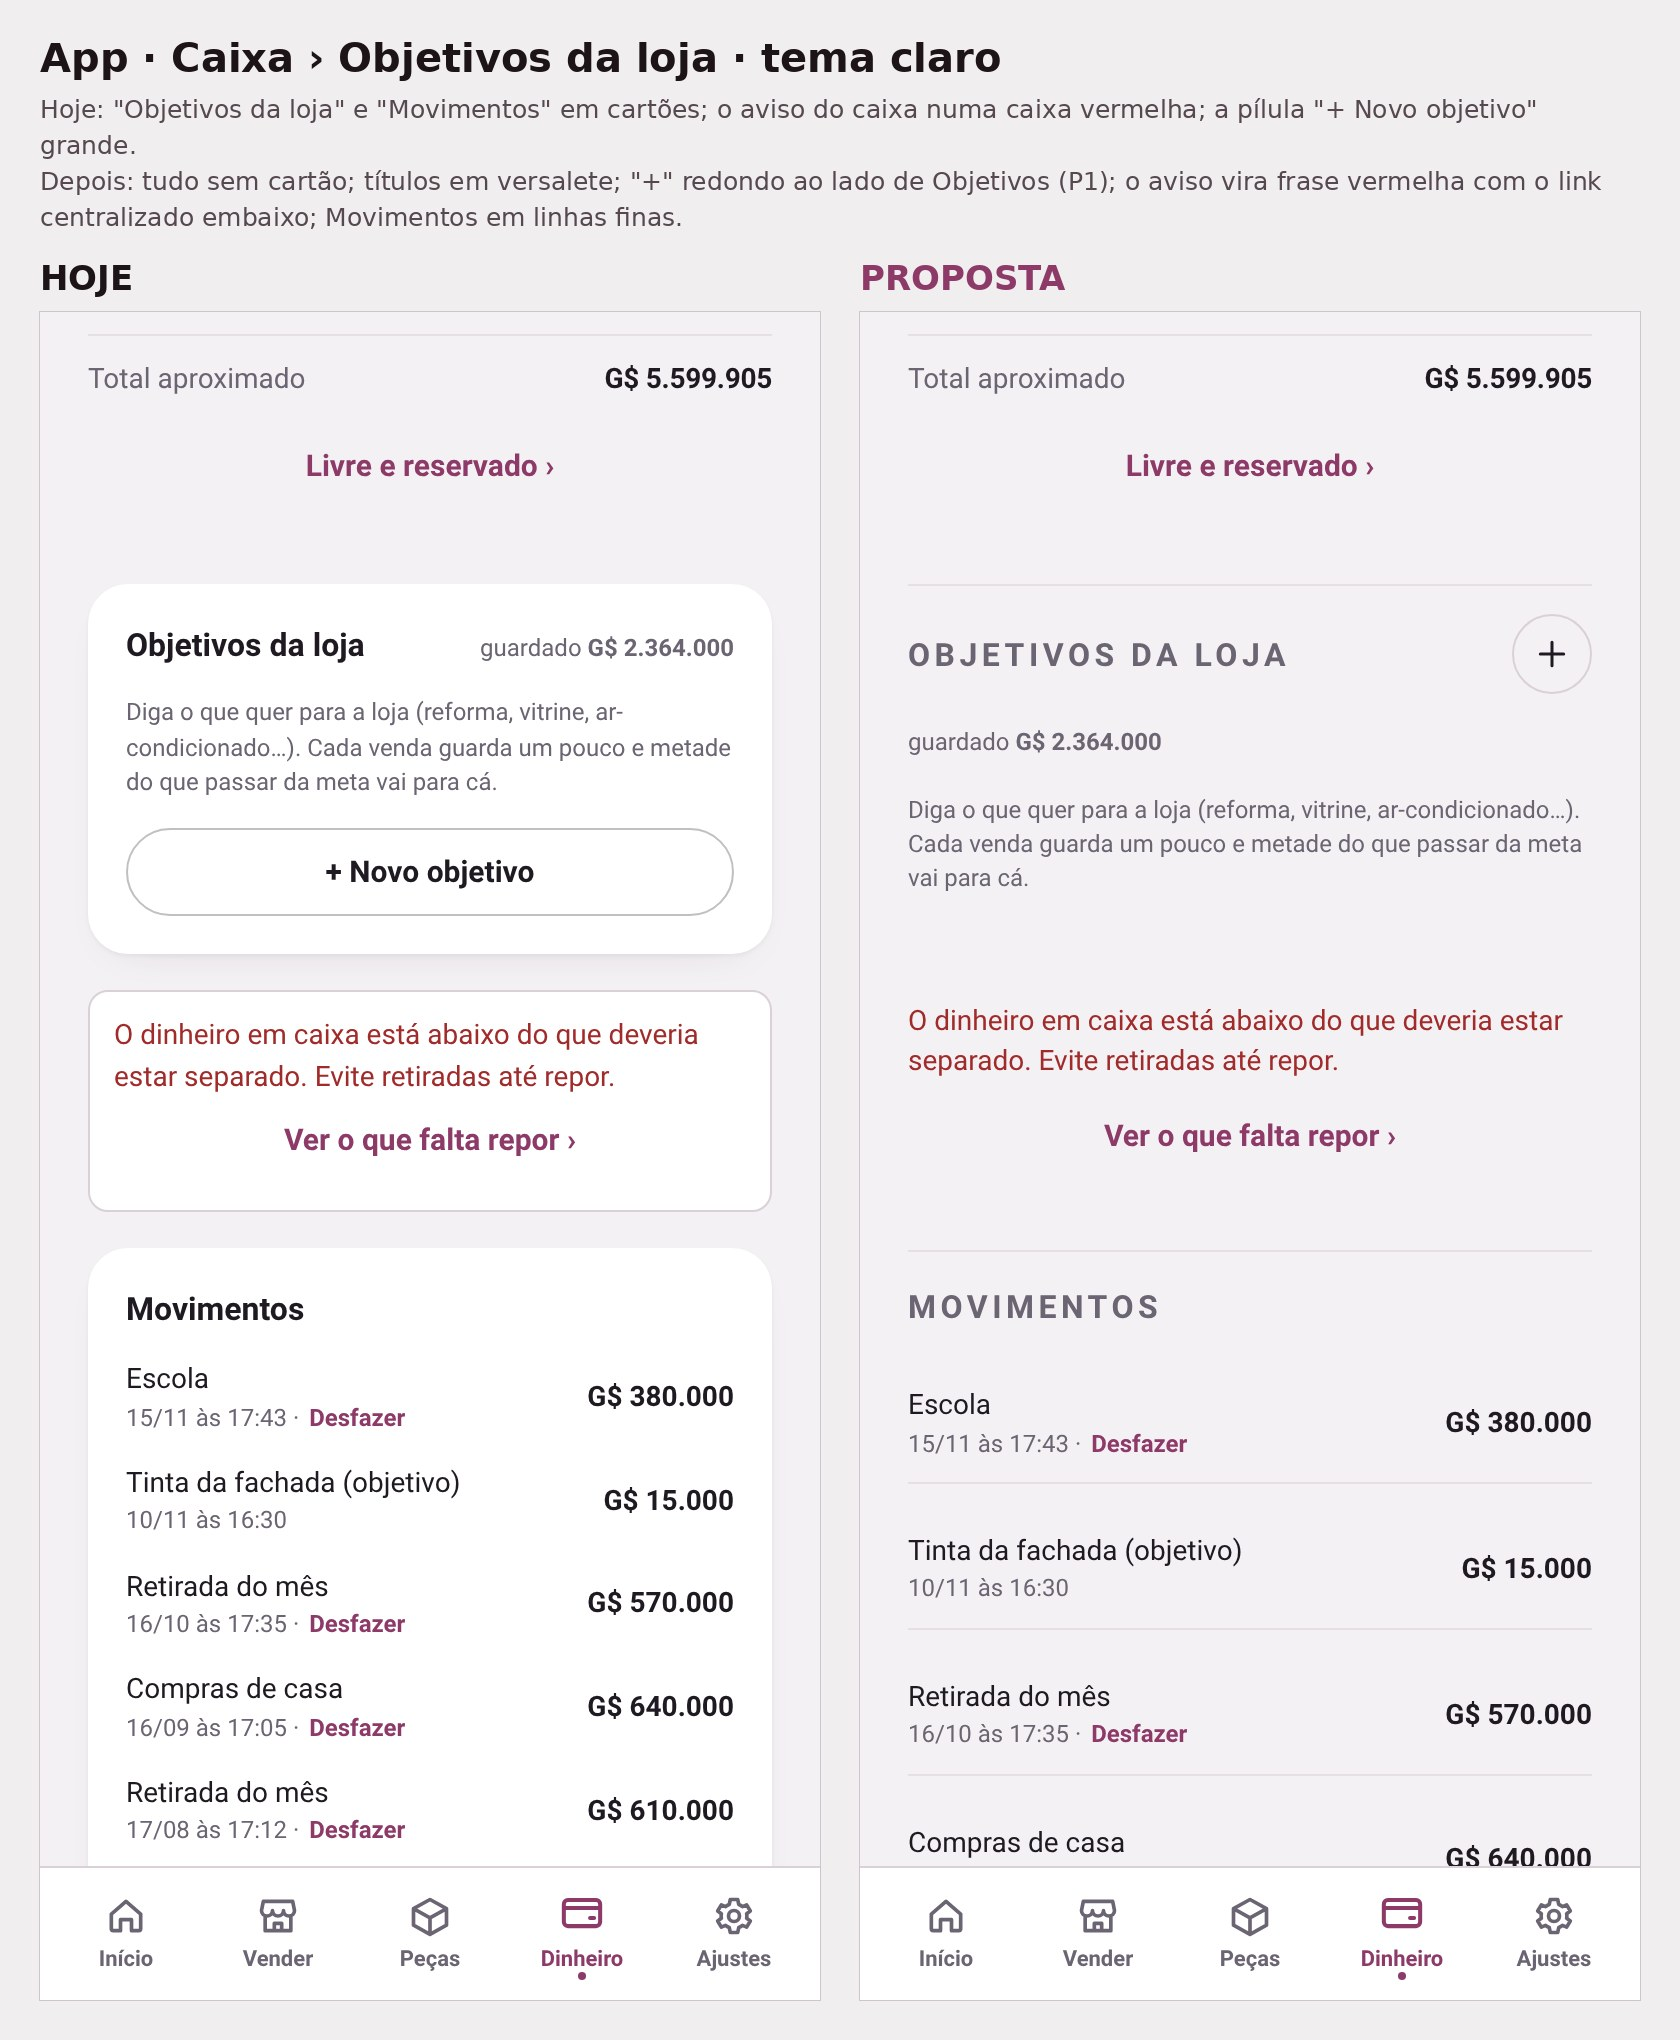
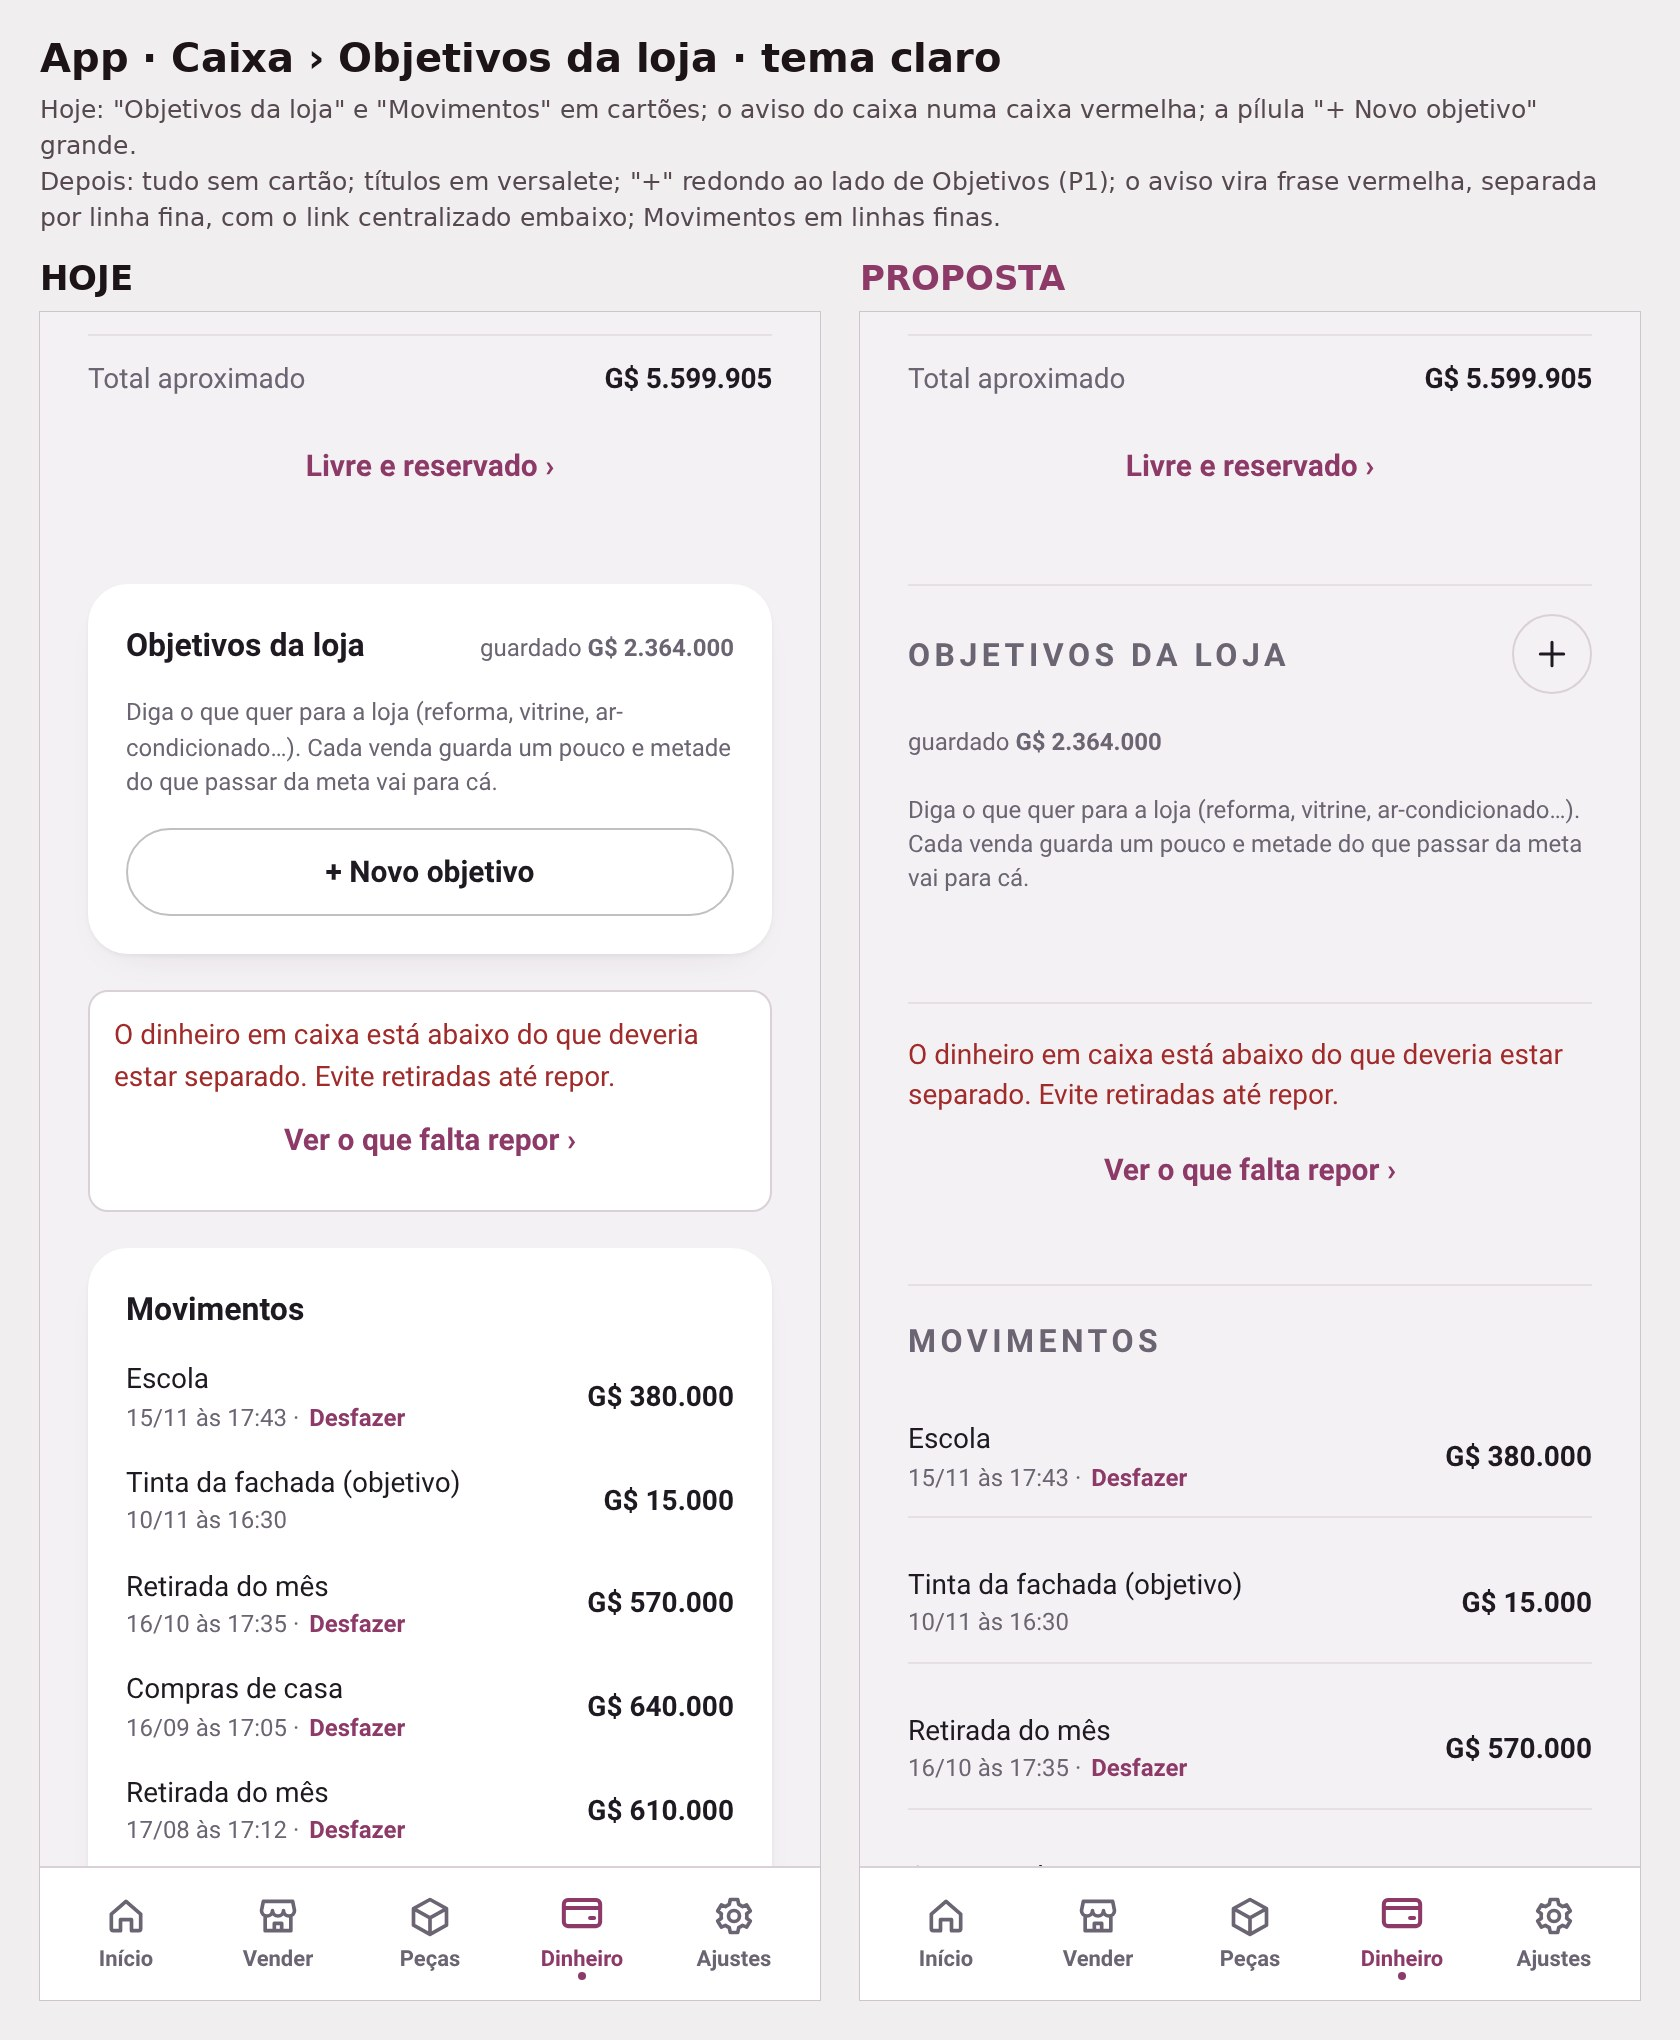
S425: 135b divisão e 135i Câmbio
Claude-Session: https://claude.ai/code/session_01Vj5GPRt4UBskC3w8v52h7G

diff --git a/work/s425/esb135.py b/work/s425/esb135.py
@@ -21,9 +21,9 @@ CASOS=[
   'Depois: "+" redondo (igual a Inventário e Clientes) no centro da linha do título (P1 + regra 2); as contas da loja em linhas finas, sem cartão.'),
  ('b','caixa-objetivos','Caixa › Objetivos da loja',D['caixa-movimentos']+["()=>scrollTo(0,420)"],
   '.view section.obCard{'+SEMCX+';border-top:1px solid var(--line2)!important;padding-top:14px!important}.obCard .paMt h2{font-size:11px!important;letter-spacing:.14em!important;text-transform:uppercase;color:var(--mute)!important;font-weight:600!important;font-family:inherit!important;white-space:nowrap;margin-right:auto!important}.obCard>.hint{margin:2px 0 0!important}html body section.card:has(.note.n-bad),html body .phgrid:has(.note.n-bad),html body .phgrid .col:has(.note.n-bad){'+SEMCX+'}html body div.note.n-bad{background:none!important;border:0!important;border-radius:0!important;box-shadow:none!important;padding:16px 0 0!important;color:var(--bad)!important;text-align:left}html body div.note.n-bad .esLn{display:block!important;margin:6px auto 0!important;text-align:center}.view section.card.col:has(>h2):not(.obCard){'+SEMCX+';border-top:1px solid var(--line2)!important;padding-top:16px!important;margin-top:16px!important}.view section.card.col:has(>h2):not(.obCard)>h2{font-size:11px!important;letter-spacing:.14em!important;text-transform:uppercase;color:var(--mute)!important;font-weight:600!important;font-family:inherit!important;margin-bottom:4px!important}.view section.card.col:has(>h2):not(.obCard) .sl{border-bottom:1px solid var(--line2);padding:10px 0!important;margin:0!important;min-height:44px;align-items:center}',
-  ["""()=>{const c=document.querySelector('.obCard');if(!c)return;const b=[...c.querySelectorAll('button')].find(x=>/Novo objetivo/.test(x.textContent));const h=c.querySelector('.paMt');if(b&&h){b.className='pl78';b.style.cssText='margin:0 0 0 12px;width:40px;height:40px';b.setAttribute('aria-label','Novo objetivo');b.innerHTML='%s';h.style.cssText+=';display:flex;align-items:center;gap:8px';const g=h.querySelector('.hint');if(g)h.after(g);h.appendChild(b)};document.querySelectorAll('.view>.note.n-bad').forEach(n=>{[['background','none'],['border','0'],['border-radius','0'],['box-shadow','none'],['padding','16px 0 0'],['margin','0']].forEach(q=>n.style.setProperty(q[0],q[1],'important'))})}"""%MAIS,CAB],
+  ["""()=>{const c=document.querySelector('.obCard');if(!c)return;const b=[...c.querySelectorAll('button')].find(x=>/Novo objetivo/.test(x.textContent));const h=c.querySelector('.paMt');if(b&&h){b.className='pl78';b.style.cssText='margin:0 0 0 12px;width:40px;height:40px';b.setAttribute('aria-label','Novo objetivo');b.innerHTML='%s';h.style.cssText+=';display:flex;align-items:center;gap:8px';const g=h.querySelector('.hint');if(g)h.after(g);h.appendChild(b)};document.querySelectorAll('.view>.note.n-bad').forEach(n=>{[['background','none'],['border','0'],['border-radius','0'],['box-shadow','none'],['padding','16px 0 0'],['margin','16px 0 0'],['border-top','1px solid var(--line2)']].forEach(q=>n.style.setProperty(q[0],q[1],'important'))})}"""%MAIS,CAB],
   'Hoje: "Objetivos da loja" e "Movimentos" em cartões; o aviso do caixa numa caixa vermelha; a pílula "+ Novo objetivo" grande.',
-  'Depois: tudo sem cartão; títulos em versalete; "+" redondo ao lado de Objetivos (P1); o aviso vira frase vermelha com o link centralizado embaixo; Movimentos em linhas finas.'),
+  'Depois: tudo sem cartão; títulos em versalete; "+" redondo ao lado de Objetivos (P1); o aviso vira frase vermelha, separada por linha fina, com o link centralizado embaixo; Movimentos em linhas finas.'),
  ('c','atacado','Atacado › Lojistas',["()=>__LF.inicioGo('ata')","()=>__LF.ACT.ataAba('loj')"],
   '#ataTabs{margin-bottom:0!important}#ataCorpo{padding-top:32px!important;margin-top:0!important}#ataCorpo .ataVz{text-align:center!important;font-weight:700;color:var(--fg)!important;padding:0!important;margin:8px 0 0!important}#ataCorpo .ataNt{text-align:center!important;margin:6px 24px 0!important;color:var(--sub)!important}',
   [plus("button[data-act=ataNovo]","Novo acesso"),CAB,"""()=>{const c=document.getElementById('ataCorpo');if(!c||c.querySelector('[data-ic]'))return;c.insertAdjacentHTML('afterbegin','<div data-ic style="display:flex;justify-content:center;color:var(--accent-fg)"><svg width="56" height="56" viewBox="0 0 24 24" fill="none" stroke="currentColor" stroke-width="1.4" stroke-linecap="round"><circle cx="12" cy="8" r="4"/><path d="M4 21c1.5-4 4.5-6 8-6s6.5 2 8 6"/></svg></div>');const v=c.querySelector('.ataVz');if(v)v.textContent='Nenhum lojista ainda'}"""],
@@ -50,9 +50,13 @@ CASOS=[
   ["""()=>{document.querySelectorAll('.view b').forEach(b=>{b.textContent=b.textContent.replace(/\\b1 dias\\b/,'1 dia')});document.querySelectorAll('.view *').forEach(e=>{const f=getComputedStyle(e).fontFamily;if(/Fraunces|Georgia/.test(f)&&!e.matches('h1,h1 *,.ttl,.ttl *')&&e.getBoundingClientRect().top>200)e.style.setProperty('font-family','Roboto, system-ui, sans-serif','important')})}"""],
   'Hoje: números do resumo na letra de título (serifada); "Black Friday em 1 dias".',
   'Depois: números na letra do texto, como no Dashboard (T); "Black Friday em 1 dia" (W).'),
+ ('i','cambio','Câmbio',["()=>__LF.setView('fx')"],'',
+  ["""()=>{const h=document.querySelector('#v-fx h1');if(!h||document.querySelector('[data-b135i]'))return;const row=h.closest('.top,.grpTop,[class*=Top]')||h.parentElement;row.style.cssText+=';display:flex;align-items:center;justify-content:space-between';row.insertAdjacentHTML('beforeend','<button type="button" class="pl78" data-b135i aria-label="Registrar troca" style="margin:0">%s</button>')}"""%MAIS,CAB],
+  'Hoje: o título "Câmbio" sem ação; para trocar é preciso descer até "Registrar troca".',
+  'Depois: "+" redondo ao lado do título abre "Registrar troca" (P1, igual a Despesas, Inventário e Clientes). O botão "Registrar troca" embaixo da Reposição continua (é o principal daquela sugestão).'),
 ]
 with sync_playwright() as pw:
-  for k,nome,tit,ps,css,js,h,p in [c for c in CASOS if c[0] in (os.environ.get('SO') or 'abcdefgh')]:
+  for k,nome,tit,ps,css,js,h,p in [c for c in CASOS if c[0] in (os.environ.get('SO') or 'abcdefghi')]:
     for esc,tema in ((True,'escuro'),(False,'claro')):
       fs=[];oo=[];aa=[]
       for prop in (0,1):

diff --git a/work/s425/i7.py b/work/s425/i7.py
@@ -1,0 +1,6 @@
+import sys;sys.path.insert(0,'/home/claude/lafouch/work/s349');import ap
+from playwright.sync_api import sync_playwright
+with sync_playwright() as pw:
+  b,pg,w=ap.abre(pw,'fx',True);w(1200)
+  print(pg.evaluate("()=>[...document.querySelectorAll('#v-fx button,#v-fx [data-act]')].filter(x=>x.getBoundingClientRect().height).map(x=>(x.dataset.act||'')+':'+(x.innerText||x.getAttribute('aria-label')||'').trim().slice(0,30)+'@'+Math.round(x.getBoundingClientRect().top))"))
+  pg.screenshot(path='/tmp/s425/fx.png',full_page=True);b.close()

diff --git a/docs/FALTA-APROVAR-15-11.md b/docs/FALTA-APROVAR-15-11.md
@@ -618,3 +618,4 @@ Não são esquecimento (estavam na lista, parados de propósito ou por ordem do 
 - 18/11 ~14:15 · DONO "Implementar" (travadas) → ✔ PUBLICADO site 1795021758 (S426; www/loja atualizado): os 5 itens. Simulador: estilo idêntico (60 telas), porteiro 197/0, catálogo 1.235→957 ms de quadros longos (processador 4× lento). A Mochi com o leitor ao lado só dá para medir no celular de verdade (no simulador ela usa o leitor de teste) → falta nova gravação do dono.
 - 18/11 14:40 — ESBOÇOS RÁPIDOS 135a–135h (work/s425/esb135.py, claro e escuro), ESPERANDO: a Despesas ("+" redondo no centro do título; Aluguel em linha) · b Caixa › Objetivos (sem cartão, versalete, "+" ao lado do bloco) · c Atacado (+ redondo, 32 px, tela vazia com ícone centralizada) · d Giro (dobras sem cartão) · e Retirada (moeda na escolha de dois lados, campos em linha) · f Registrar troca (De/Para escolha de dois lados, campos em linha) · g Pendências (linhas, ação "Ver ›" rosa) · h Preços (números na letra do texto; "1 dia"). Base: 132, 133a/b, 134. Olho nada novo; alinhamento caiu em todas (ex.: Giro 8→0, Pendências 12→0). Conflito 134d × P6 fica para depois (dono).
 - 18/11 14:55 — DONO: "quase tudo aprovado, dois detalhes"; 1º: 135b fora do padrão no fim → refeito: aviso do caixa vira frase vermelha sem caixa (link centralizado embaixo) e Movimentos em linhas finas com versalete. Esperando o 2º detalhe.
+- 18/11 15:05 — DONO: (2º detalhe) "não devia ter um botão na aba câmbio no começo? e uma divisão na mensagem em vermelho?" → 135b: aviso separado por linha fina acima; NOVO 135i Câmbio: "+" redondo ao lado do título abre Registrar troca (o botão principal embaixo da Reposição continua). Esperando aprovação do 135 inteiro.

diff --git a/docs/MEMORIA-PROJETO.md b/docs/MEMORIA-PROJETO.md
@@ -3101,3 +3101,4 @@ Testar TUDO, com muita calma, antes de dizer que está pronto ou de publicar: ca
 - 18/11 14:10 — VARREDURA v1 feita (docs/VARREDURA-PADROES-18-11.md; ferramenta work/verif/). Achados por padrão no arquivo. CONFLITO: 134d aprovado ("Fechar sem salvar") × P6 (sem Fechar) — perguntar. Erro de texto "Black Friday em 1 dias". Falta: tablet/PC/3 letras e celular real.
 - 18/11 14:40 — ESBOÇOS RÁPIDOS 135a–135h (work/s425/esb135.py, claro e escuro), ESPERANDO: a Despesas ("+" redondo no centro do título; Aluguel em linha) · b Caixa › Objetivos (sem cartão, versalete, "+" ao lado do bloco) · c Atacado (+ redondo, 32 px, tela vazia com ícone centralizada) · d Giro (dobras sem cartão) · e Retirada (moeda na escolha de dois lados, campos em linha) · f Registrar troca (De/Para escolha de dois lados, campos em linha) · g Pendências (linhas, ação "Ver ›" rosa) · h Preços (números na letra do texto; "1 dia"). Base: 132, 133a/b, 134. Olho nada novo; alinhamento caiu em todas (ex.: Giro 8→0, Pendências 12→0). Conflito 134d × P6 fica para depois (dono).
 - 18/11 14:55 — DONO: "quase tudo aprovado, dois detalhes"; 1º: 135b fora do padrão no fim → refeito: aviso do caixa vira frase vermelha sem caixa (link centralizado embaixo) e Movimentos em linhas finas com versalete. Esperando o 2º detalhe.
+- 18/11 15:05 — DONO: (2º detalhe) "não devia ter um botão na aba câmbio no começo? e uma divisão na mensagem em vermelho?" → 135b: aviso separado por linha fina acima; NOVO 135i Câmbio: "+" redondo ao lado do título abre Registrar troca (o botão principal embaixo da Reposição continua). Esperando aprovação do 135 inteiro.
